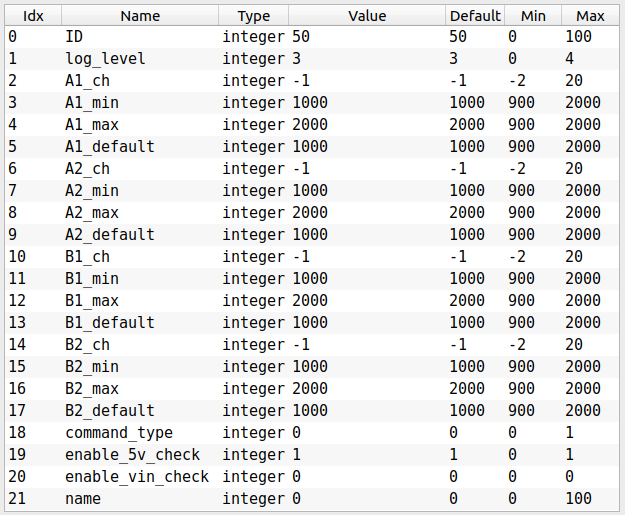
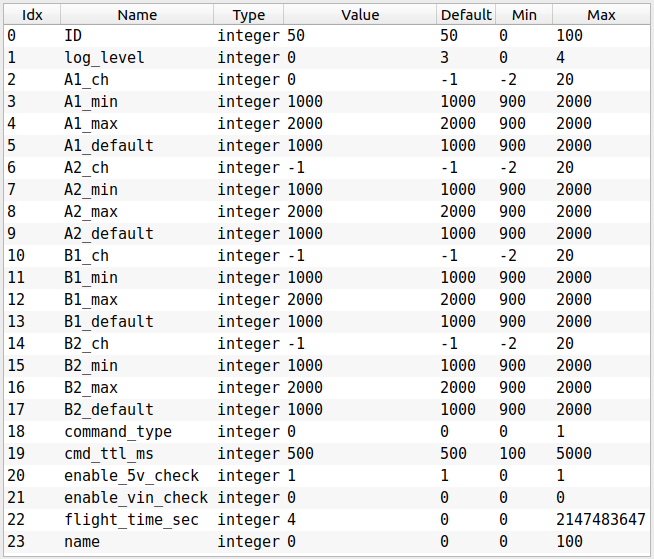
update can-pwm doc

Changed region(s): [[0.0, 0.0, 1.0, 1.0]]

diff --git a/doc/can_pwm/README.md b/doc/can_pwm/README.md
@@ -14,11 +14,11 @@ The difference between boards are following:
 
 | № | Criterion            | 5A      | Mini     | Micro         |
 | - | -------------------- | ------- | -------- | ------------- |
-| 1 | development status   | tested  | tested   | testing stage |
 | 1 | dc-dc availability   | yes     | yes      | no            |
 | 2 | input voltage        | 2S-12S  | 2S-6S    | 4.8-5.6 V     |
 | 3 | input current sensor | yes     | no       | no            |
 | 4 | auxilliary pins      | no      | 2        | no            |
+| 5 | Vin voltage sensor   | yes     | yes      | -             |
 
 ## Content
   - [1. UAVCAN interface](#1-uavcan-interface)
@@ -30,13 +30,14 @@ The difference between boards are following:
     - [5.2 Esc flame](#52-esc-flame)
     - [5.3 Node info](#53-node-info)
     - [5.4 Log messages](#54-log-messages)
+    - [5.5 Time to live](#55-time-to-live)
+    - [5.6 Watchdog](#56-watchdog)
+    - [5.7 Flight time recorder](#57-flight-time-recorder)
   - [6. Parameters](#6-parameters)
     - [6.1. Log level](#61-log-level)
     - [6.2. Mapping configuration](#62-mapping-configuration)
-    - [6.3. Power check](#63-power-check)
-    - [6.4. Command type](#64-command-type)
-    - [6.5. Voltage checks](#65-voltage-checks)
-    - [6.6. Node name customization](#66-node-name-customization)
+    - [6.3. Voltage checks](#63-voltage-checks)
+    - [6.4. Node name customization](#64-node-name-customization)
   - [7. Led indication](#7-led-indication)
   - [8. Debugging on a table](#8-debugging-on-a-table)
   - [9. PX4 integration](#9-px4-integration)
@@ -52,7 +53,7 @@ This node interacts with the following messages:
 | 2 | subscriber | [uavcan.equipment.actuator.ArrayCommand](https://dronecan.github.io/Specification/7._List_of_standard_data_types/#arraycommand) |
 | 3 | publisher   | [uavcan.equipment.esc.Status](https://dronecan.github.io/Specification/7._List_of_standard_data_types/#status-2) |
 | 4 | publisher   | [uavcan.equipment.power.CircuitStatus](https://dronecan.github.io/Specification/7._List_of_standard_data_types/#circuitstatus) |
-| 5 | publisher   | [uavcan.protocol.debug.LogLevel](https://dronecan.github.io/Specification/7._List_of_standard_data_types/#logmessage) |
+| 5 | publisher   | [uavcan.protocol.debug.LogMessage](https://dronecan.github.io/Specification/7._List_of_standard_data_types/#logmessage) |
 
 Besides required and highly recommended functions such as `NodeStatus` and `GetNodeInfo` this node also supports the following application-level functions:
 
@@ -87,17 +88,31 @@ Fig. Example of servo connection to a A1 channel of UAVCAN-PWM mini node.
 
 ## 4. Main function description
 
-This node receives [RawCommand](https://dronecan.github.io/Specification/7._List_of_standard_data_types/#rawcommand) that has an array with up to 20 channels and it can process up to 2 (4) of any of them. Each channel is normalized into [-8192, 8191].
+This node receives setpoint that might be represented as [RawCommand](https://dronecan.github.io/Specification/7._List_of_standard_data_types/#rawcommand) or [ArrayCommand]() depending on `command_type` parameter value. The node can process up to 2 (4 for can-mini) setpoints at the same time.
 
-Output for each desired RawCommand channel is PWM signal with frequency 50 Hz and duration from 900 to 2000 us. Typically, 900 us means the minimal position of servo or stopped motor on the ESC and 2000 us is a maximum. But this range might be different depending on your actuator and desired angle of control of your servo. You also may want to inverse the output of your servo and set a default position of your servo other than just a min or max, for example, a middle.
+Output for each desired setpoint is PWM signal with frequency 50 Hz and duration from 900 to 2000 us. Typically, 900 us means the minimal position of servo or stopped motor on the ESC and 2000 us is a maximum. But this range might be different depending on your actuator and desired angle of control of your servo. You also may want to inverse the output of your servo and set a default position of your servo other than just a min or max, for example, a middle.
 
 Configuration of such mapping might be done using 4 parameters: `channel`, `min`, `max`, and `def` which exist for each PWM-channel. They are described in `6. Parameters` section.
+
+**RawCommand mapping**
+
+RawCommand is an array that contains up to 20 setpoints called channels. Each raw command channel is normalized into [-8192, 8191]. Since the node supprots only one direction of rotation, all values below 0 are parsed as default values.
 
 Below you can see the visualization of this mapping.
 
 ![mapping](can_pwm_mapping.png?raw=true "mapping")
 
 Fig. UAVCAN->PWM mapping
+
+**ArrayCommand mapping**
+
+`ArrayCommand` is an array that contains up to 15 messages of type `uavcan.equipment.actuator.Command`. The most important fields of `Command` message are `actuator_id` and `command_value`.
+
+Compared to RawCommand, if you need to send command only to, let's say, actuator with id=15, you don't need to send all other channels from 0 to 14 as well.
+
+Another difference is that ArrayCommand might be normalized in any way. The node supports only unitless type ([-1; +1]).
+
+`ArrayCommand` mapping looks similar to `RawCommand` mapping. If input value is negative, the output PWM value is default.
 
 ## 5. Auxiliary functions description
 
@@ -154,13 +169,21 @@ To enable this feature, your need to load a special firmware called `can_pwm_esc
 
 Every firmware store following info that might be received as a response on NodeInfo request. It stores:
 - software version,
+- hardware version (doen't work yet),
 - an unique identifier.
 
 ![node_info](node_info.png?raw=true "node_info")
 
 ### 5.4 Log messages
 
-5 second after enabling, the node may publish [uavcan.protocol.GetTransportStats](https://dronecan.github.io/Specification/7._List_of_standard_data_types/#gettransportstats) message with his status.
+The node may inform you when something happen using [uavcan.protocol.debug.LogMessage](https://dronecan.github.io/Specification/7._List_of_standard_data_types/#logmessage).
+
+At that moments the node may publishes messages in 2 ways:
+1. 5 second after enabling. Here we can have one of following messages:
+- If everything is ok, the log level is `DEBUG` and the message is `sys inited`
+- If the node have power problems, the log level is `ERROR`,
+- If the hardware and software diagnostic fails during initialization, you will get a `CRITICAL` level message. This should not happen in normal condition, but if so, don't use it in production. In this case, the node repeats the message each 15 seconds.
+2. When TTL timeout occure. This message has log level `WARNING`.
 
 A visualization of this message in `uavcan_gui_tool` in case of error shown on a picture below.
 
@@ -168,21 +191,40 @@ A visualization of this message in `uavcan_gui_tool` in case of error shown on a
 
 Fig. Visualization of log messages in uavcan_gui_tool on case of error
 
-At that moment it support only 2 types of messages:
-- If initialization is sucessfull and log level is DEBUG (0), it sends `sys inited` message.
-- If initialization is failed, it always sends the `init failed` message where source field is a clue where error occured every 15 seconds. You should not use this node in such condition. Tipically, firmware or hardware is wrong.
-
 This message might be used in PX4 as [logmessage](https://github.com/PX4/PX4-Autopilot/blob/master/src/drivers/uavcan/logmessage.hpp) feature.
 
-```
-Note: the 5 seconds delay is added to prevent possible flood.
-```
+### 5.5 Time to live
+
+Every received setpoint has his own time to live timestamp.
+
+If the timeout specified in parameters is exceeded, the setpoint will be equal to default value.
+
+Typically, the value of this parameter should be at least in 2 times more that setpoint publish rate.
+
+### 5.6 Watchdog
+
+The node performs the diagnostic during all of the working time. In case of freeze, it will automatically reboot in 0.6 seconds.
+
+### 5.7 Flight time recorder
+
+The flight time recorder feature allows you to record total time when the node is armed. It might be usefull for application where hardware resource is essential. Some devices such as internal combustion engine is recommended to update in a relatively short period of time, let's say 300-400 hours.
+
+The flight recorded time is stored in flash memory. The limitation of working with flash memory is following:
+- it takes time to erase and write data to the memory,
+- the erasing resource of flash memory is limited.
+Since we don't want to interfare on the node during arm, the tine updating is performed only after 0.5 second after node goes into disarm state.
+
+Since PX4 doesn't support [ArmingStatus](https://dronecan.github.io/Specification/7._List_of_standard_data_types/#armingstatus) yet, the arm/disarm state is estimated by RawCommand. If all values of these commands are zero or negative, it is estimated as disarm. If any of commands values are positive, it is estimated as arm.
 
 ## 6. Parameters
 
-Below you can see a picture from `uavcan_gui_tool` with a whole list of parameters.
+Below you can see a picture from `uavcan_gui_tool` with the latest list of parameters.
+
+The actual list of parameters on your node depends on firmware version.
 
 ![params](params.png?raw=true "params")
+
+Fig. The latest list of parameters
 
 A brief description of all parameters shown in the table below.
 
@@ -190,14 +232,18 @@ A brief description of all parameters shown in the table below.
 | --------- | ---------------- | --------------- | ----------- |
 | 0         | ID               | true            | Node ID     |
 | 1         | log_level        | true            | Specify what level of log can be sent. |
-| 2,6,10,14 | channel          | false           | Specify here a desired command channel you want to map into a particular PWM pin. Default value -1 means disable. |
-| 3,7,11,15 | min              | false           | PWM duration when RawCommand = 0. |
-| 4,8,12,16 | max              | false           | PWM duration when RawCommand = 8191. |
-| 5,9,13,17 | def              | false           | PWM duration when RawCommand < 0 or when there is no RawCommand for a few seconds. |
+| 2,6,10,14 | ch               | false           | Index of setpoint channel. |
+| 3,7,11,15 | min              | false           | PWM duration when setpoint is min. |
+| 4,8,12,16 | max              | false           | PWM duration when setpoint is max. |
+| 5,9,13,17 | def              | false           | PWM duration when setpoint is negative or there is no setpoint at all. |
 | 18        | command_type     | true            | 0 means RawCommand, 1 means ArrayCommand |
-| 19        | enable_5v_check  | false           | Set ERROR status if 5V voltage is out of range 4.5 - 5.5 V |
-| 20        | enable_vin_check | false           | Set ERROR status if Vin voltage is less than 4.5 V |
-| 21        | name             | true            |  |
+| 19        | cmd_ttl_ms       | false           | [Time to live](https://en.wikipedia.org/wiki/Time_to_live) timeout |
+| 20        | enable_5v_check  | false           | Set ERROR status if 5V voltage is out of range 4.5 - 5.5 V |
+| 21        | enable_vin_check | false           | Set ERROR status if Vin voltage is less than 4.5 V |
+| 22        | flight_time_sec  | false           | The total flight time in seconds. |
+| 23        | name             | true            | Name of the node |
+
+The detailed description of some of these parameters is shown in the chapters below.
 
 ### 6.1. Log level
 
@@ -223,21 +269,20 @@ According to the [LogLevel](https://dronecan.github.io/Specification/7._List_of_
 
 Mainly parameters are dedicated to UAVCAN-PWM mapping configuration. Here we have 2 or 4 groups `A1`, `A2`, `B1`, `B2` of parameters. Below you can see a table with their description:
 
-### 6.3. Power check
+| Param name  | Description                                                                             |
+| ----------- | --------------------------------------------------------------------------------------- |
+| xx_ch       | Index of setpoint channel (RawCommand or ArrayCommand). Default value -1 means disable. |
+| xx_min      | PWM duration when setpoint is min (RawCommand is 0 or Command is 0.0)                   |
+| xx_max      | PWM duration when setpoint is max (RawCommand is 8191 or Command is 1.0)                |
+| xx_default  | PWM duration when setpoint is negative or there is no setpoint at all                   |
+
+### 6.3. Voltage checks
 
 Such parameters as `enable_5v_check` and `enable_vin_check` are dedicated for enabling/disabling 5V and Vin check:
 - If the 5V check is enabled, the node state will be `ERROR` if the 5V voltage is less than 4.5V or bigger than 5.5V
 - If Vin check is enabled, the node state will be `ERROR` if the 5V voltage is less than 4.5V.
 
-### 6.4. Command type
-
-Specify which message (RawCommand or ArrayCommand) should be used.
-
-### 6.5. Voltage checks
-
-Enable or disable circuit status checks.
-
-### 6.6. Node name customization
+### 6.4. Node name customization
 
 By default this node have general purpose name `inno.can.pwm_node`. This name might be changed to a more specific name by changing the parameter `name`.
 
@@ -334,4 +379,7 @@ Number of used channels for node depends on configuration of your vehicle. You a
 | v0.3.2 0b55576 | May 31, 2021 | Add esc-flame feedback support    |
 | v0.4.0 9b873da | Nov 03, 2021 | Add uavcan-pwm-5a node support    |
 | v0.4.0 946e326 | Nov 17, 2021 | Add ArrayCommand support          |
-| v0.5.0         | 2022         | Add log messages                  |
+| v0.5.0 45a925f | Feb 07, 2022 | Add LogMessages                   |
+| v0.5.2 b626feb | Mar 30, 2022 | Add Watchdog                      |
+| v0.5.2 c4ab2be | Mar 31, 2022 | Add Flight time recorder          |
+| v0.5.7 f951dc6 | May 06, 2022 | Use individual TTL for each setpoint instead of a single one |
